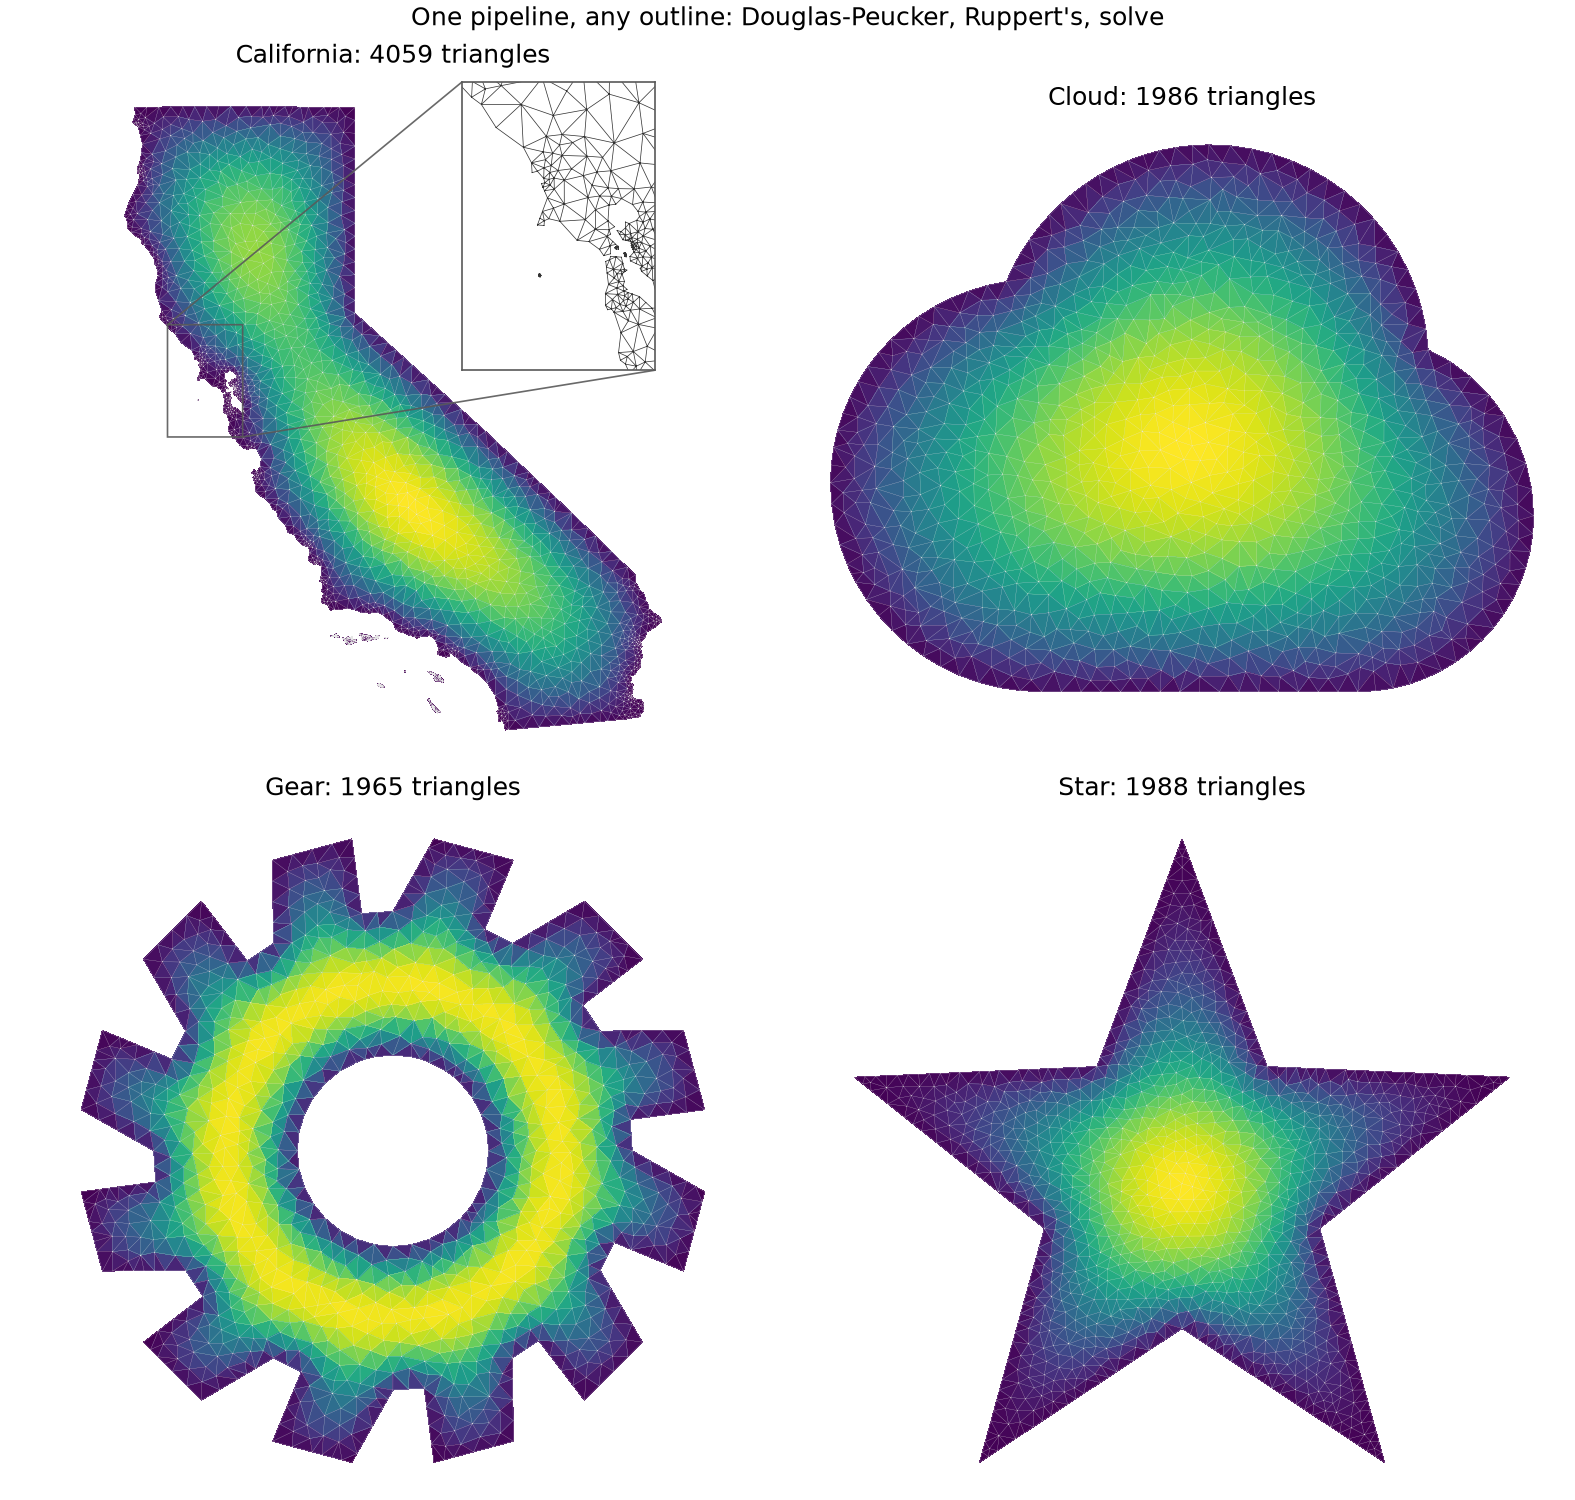
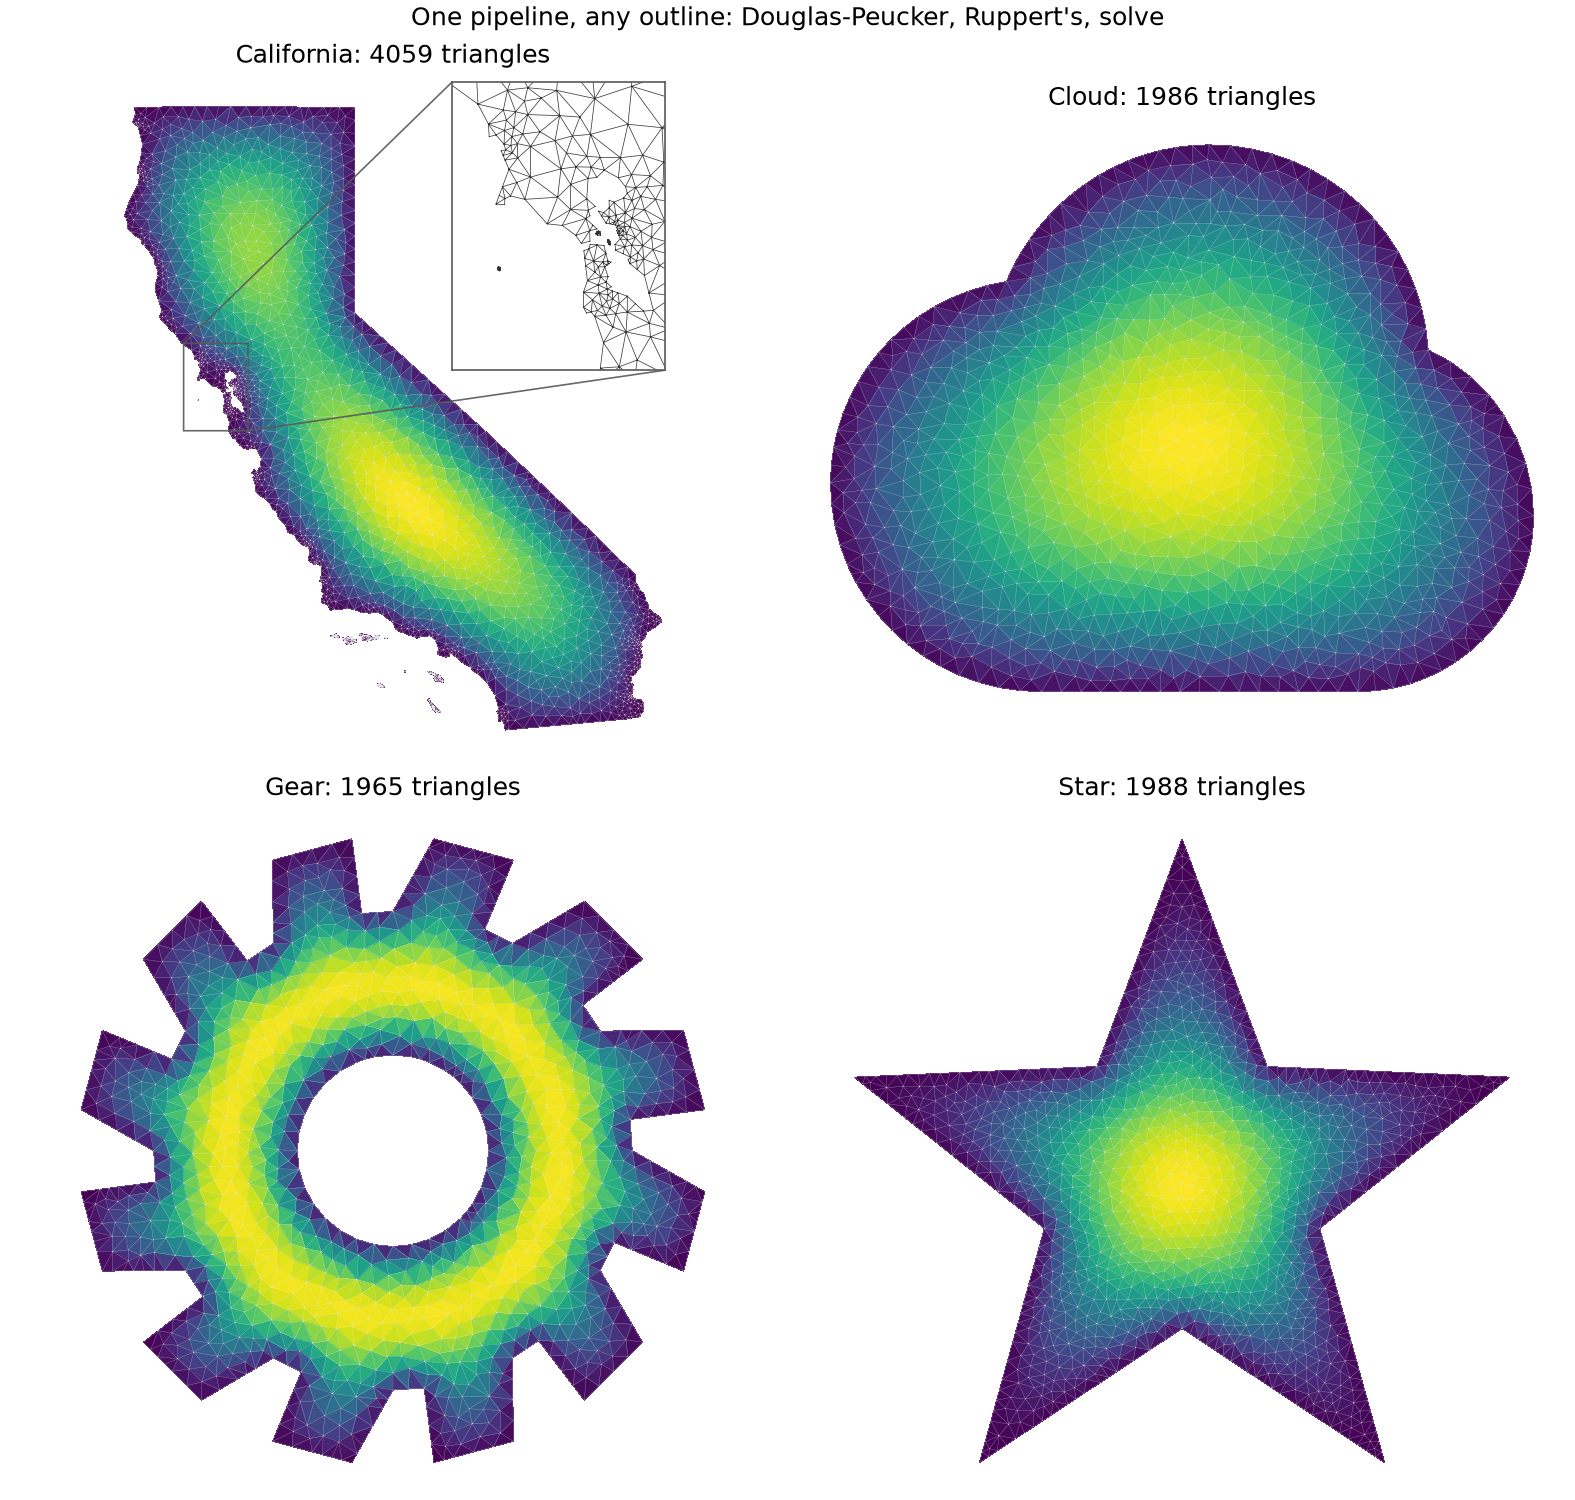
Center the California zoom inset on the San Francisco Bay
The zoom box sat west of the bay, so its left third was open coast. Shift
and tighten it onto the bay complex, where the traced coastline is most
intricate, so the inset frames the detail it is meant to show.

diff --git a/examples/meshing_demos.py b/examples/meshing_demos.py
@@ -241,12 +241,13 @@ def demo_outline_zoo(min_angle=28, max_area_fraction=0.0008, svg_tolerance=0.001
                      empty=True, title=f'{name}: {len(mesh.elements)} triangles')
         plot_mesh(plotter.get_ax(idx), mesh, color='0.9', linewidth=0.1)
         if name == 'California':
-            # Reveal the real mesh under the smooth field, zoomed into the central coast.
+            # Reveal the real mesh under the smooth field, zoomed onto the San Francisco
+            # Bay, where the traced coastline is most intricate.
             v = np.asarray(mesh.vertices)
             lo, hi = v.min(axis=0), v.max(axis=0)
             span = hi - lo
-            box = (lo[0] + 0.08 * span[0], lo[0] + 0.22 * span[0],
-                   lo[1] + 0.47 * span[1], lo[1] + 0.65 * span[1])
+            box = (lo[0] + 0.11 * span[0], lo[0] + 0.23 * span[0],
+                   lo[1] + 0.48 * span[1], lo[1] + 0.62 * span[1])
             _mesh_zoom_inset(plotter.get_ax(idx), mesh, box)
         worst = calculate_triangle_min_angle(
             np.asarray(mesh.vertices)[np.asarray(mesh.elements)]).min()
